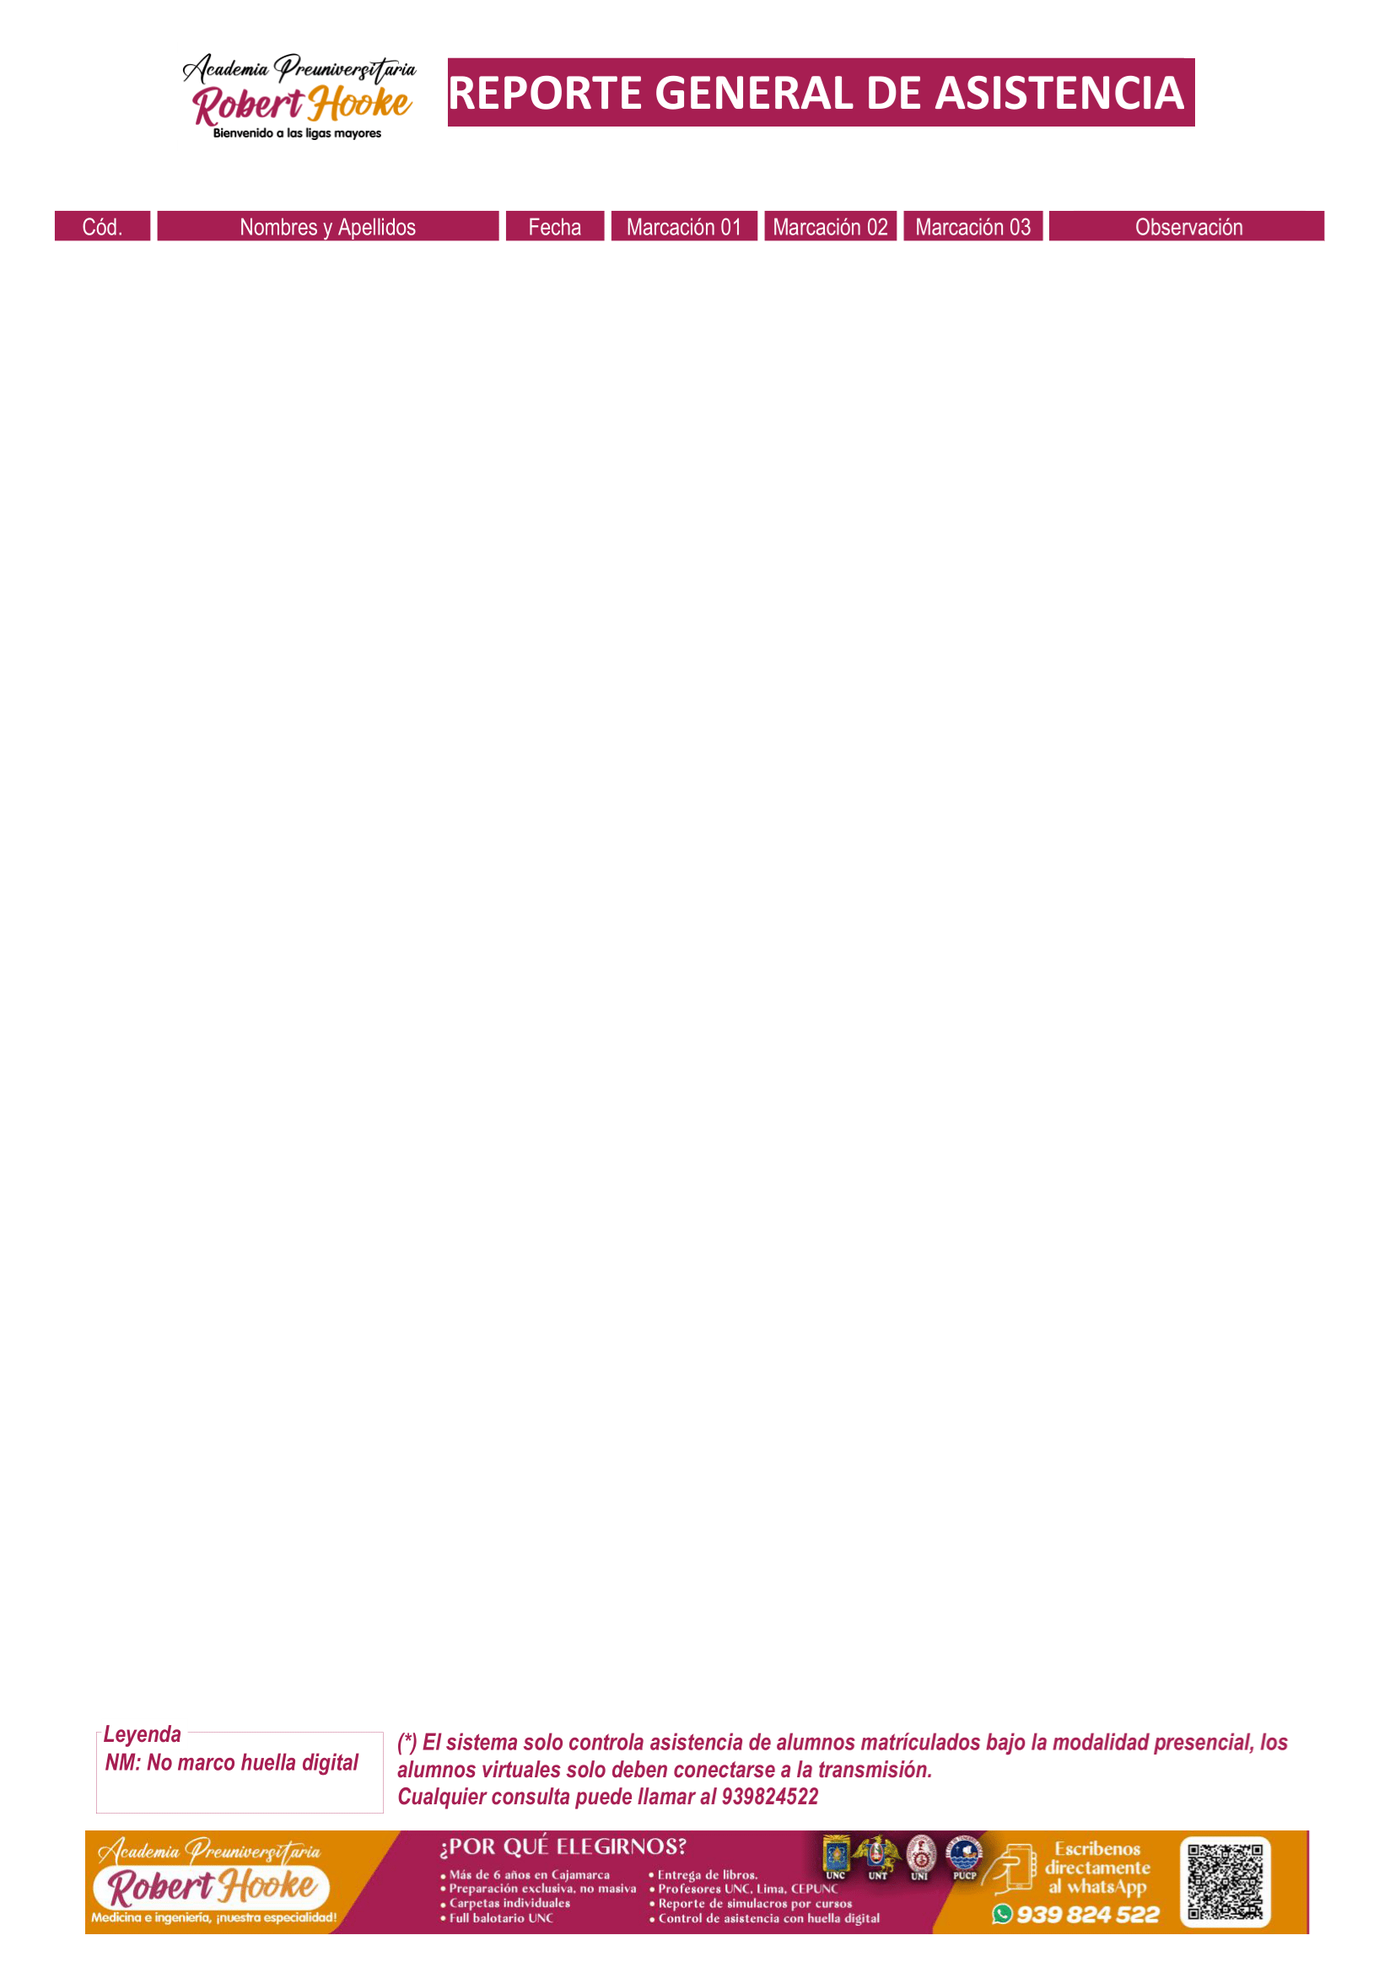
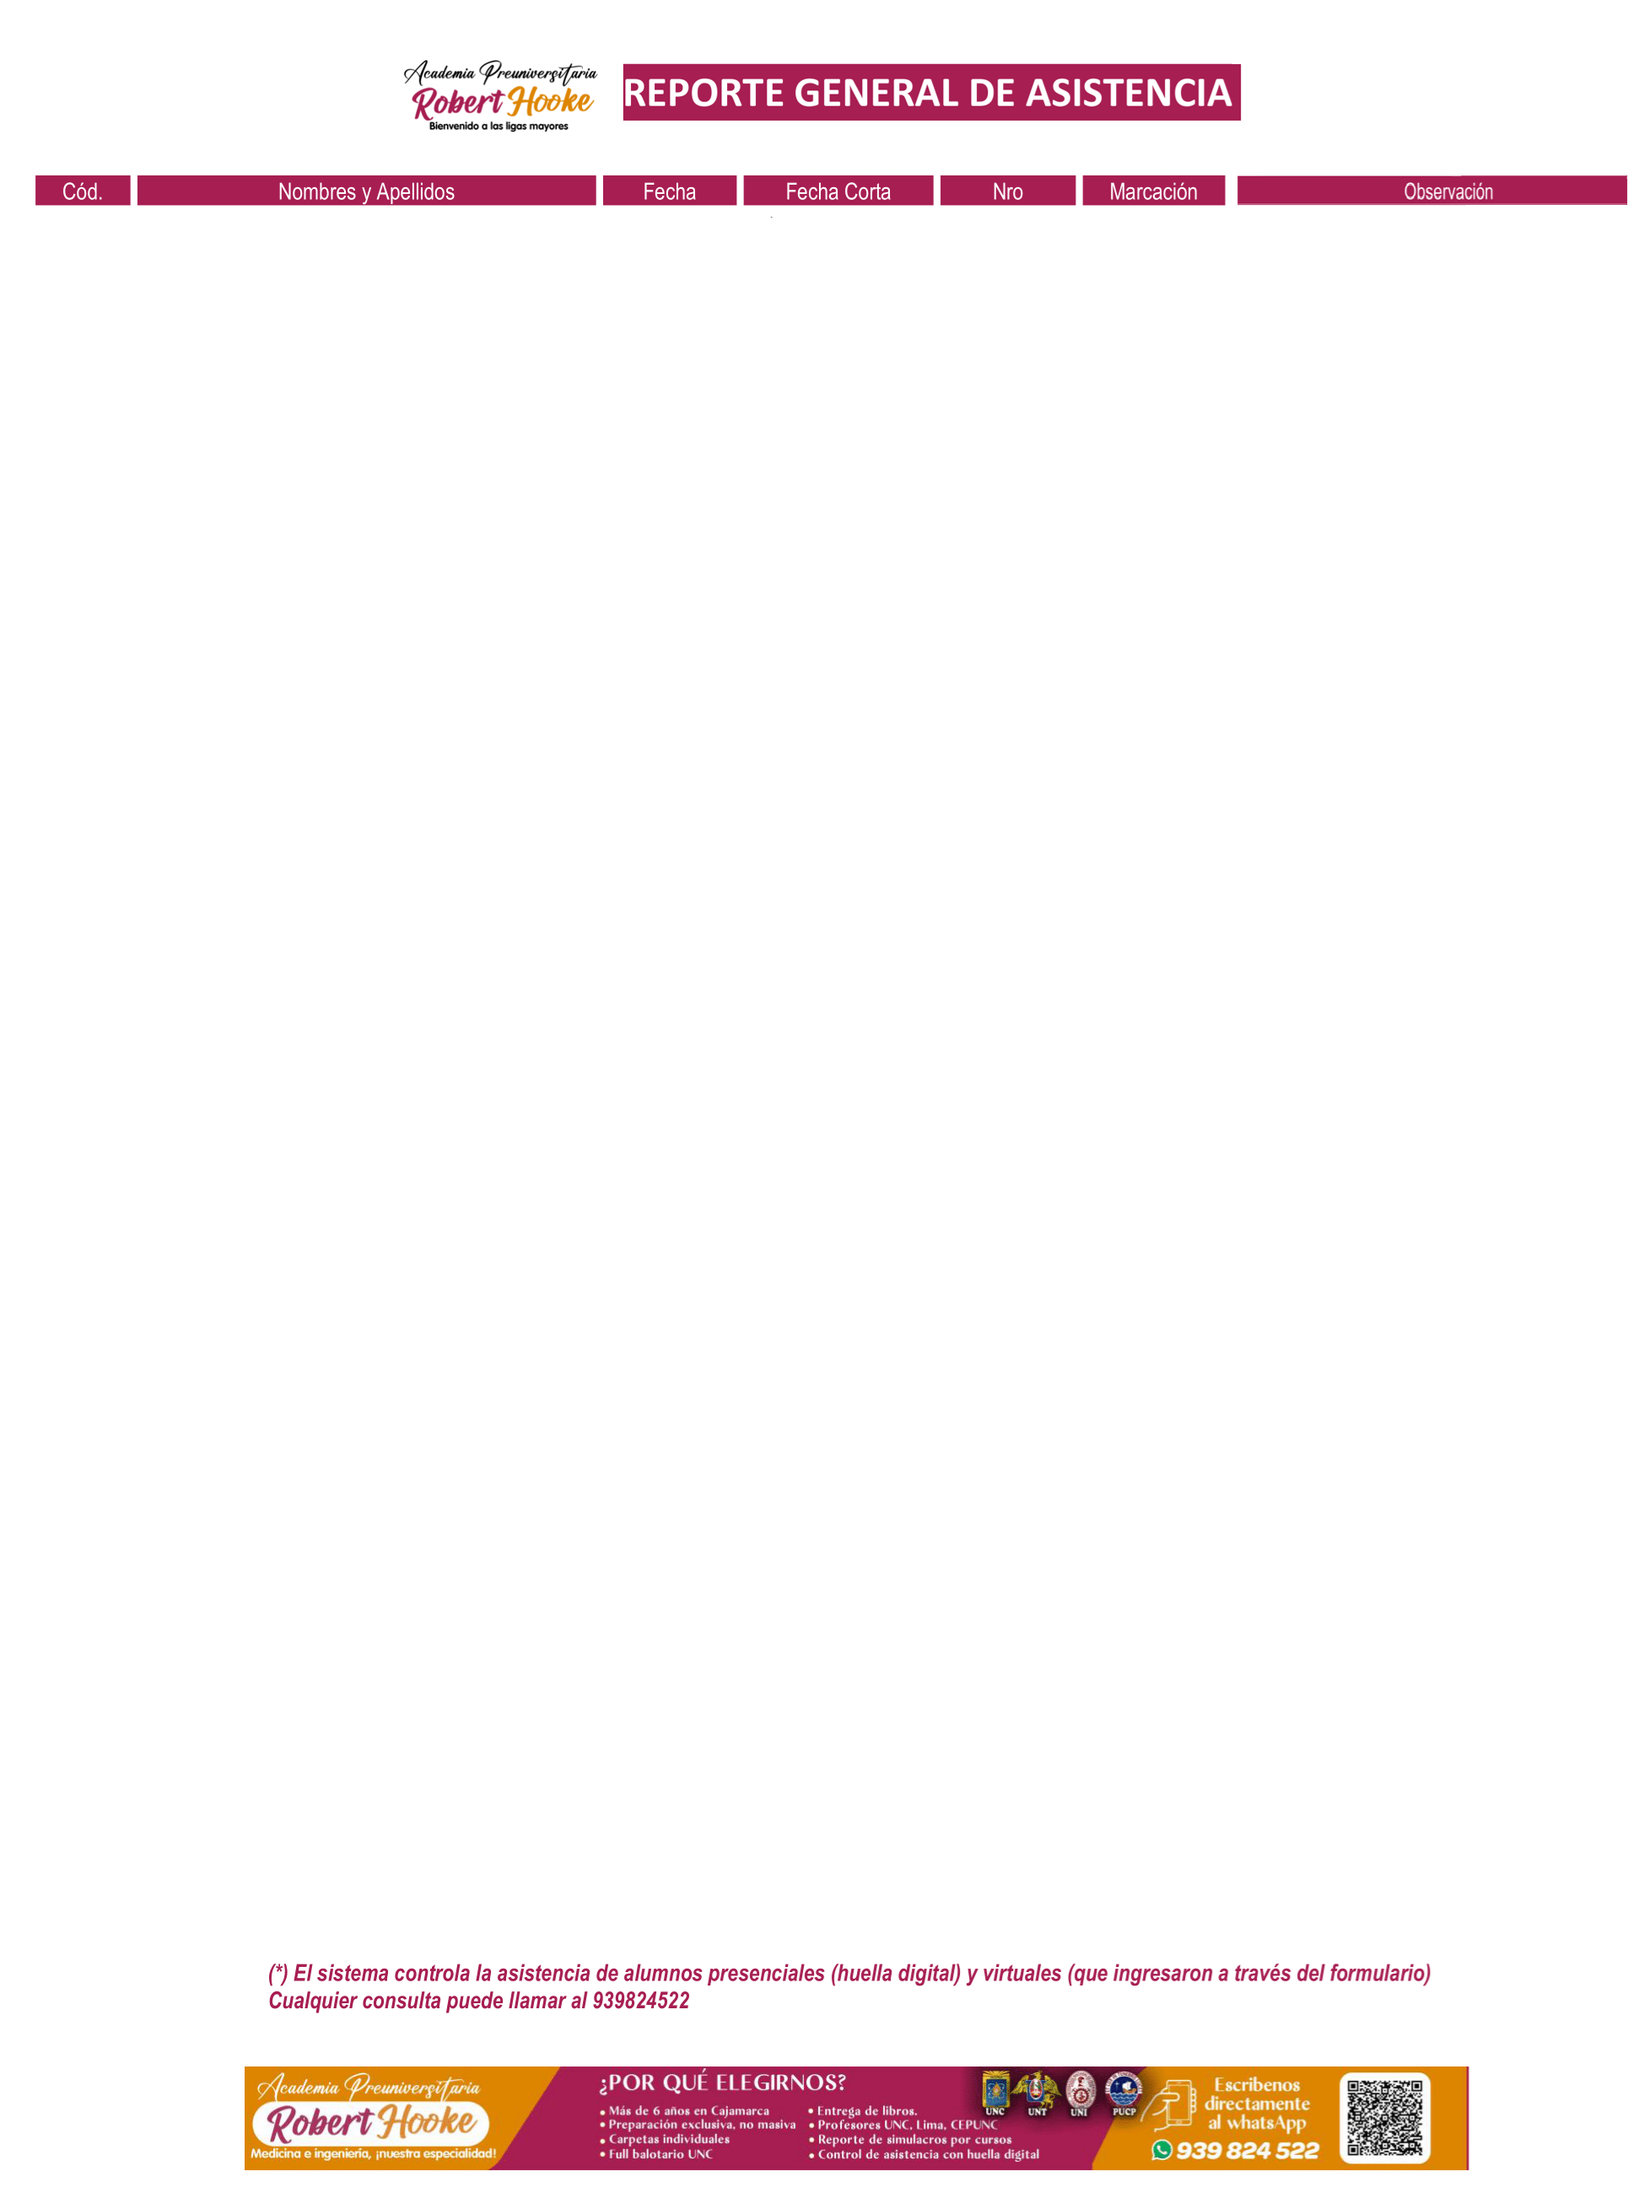
Incorporación de modalidad a asistencia

Changed region(s): [[0.0617, 0.8739, 0.9559, 0.9987], [0.0, 0.0312, 1.0, 0.1248]]

diff --git a/login/templates/ver_asistencias.html b/login/templates/ver_asistencias.html
@@ -57,6 +57,7 @@
                     <th>Fecha Corta</th>
                     <th>Nro</th>
                     <th>Marcación</th>
+                    <th>Modalidad</th>
                     <th>Observación</th>
                 </tr>
             </thead>
@@ -69,6 +70,7 @@
                         <td style="color: black;">{{ a.fecha_corta }}</td>
                         <td style="color: black;">{{ a.numero_marca }}</td>
                         <td style="color: black;">{{ a.hora }}</td>
+                        <td style="color: black;">{{ a.modalidad }}</td>
                         <td style="color: black;">{{ a.observacion }}</td>
                     </tr>
                 {% empty %}

diff --git a/appPrincipal/settings.py b/appPrincipal/settings.py
@@ -11,16 +11,12 @@ https://docs.djangoproject.com/en/5.1/ref/settings/
 """
 
 from pathlib import Path
-from dotenv import load_dotenv
 import os
-load_dotenv()
 
 # Build paths inside the project like this: BASE_DIR / 'subdir'.
 BASE_DIR = Path(__file__).resolve().parent.parent
 
 
-SESSION_COOKIE_NAME = "sessionid_reportes"
-CSRF_COOKIE_NAME = "csrftoken_reportes"
 # Quick-start development settings - unsuitable for production
 # See https://docs.djangoproject.com/en/5.1/howto/deployment/checklist/
 
@@ -85,18 +81,19 @@ WSGI_APPLICATION = 'appPrincipal.wsgi.application'
 
 DATABASES = {
     'default': {
-        'ENGINE': 'django.db.backends.mysql',
-        'NAME': os.getenv('DATABASE_NAME'),
-        'USER': os.getenv('DATABASE_USER'),
-        'PASSWORD': os.getenv('DATABASE_PASSWORD'),
-        'HOST': os.getenv('DATABASE_HOST', 'localhost'),
-        'PORT': os.getenv('DATABASE_PORT', '3306'),
+        'ENGINE': 'django.db.backends.mysql',  # Motor de base de datos
+        'NAME': 'robert2',           # Nombre de la base de datos
+        'USER': 'root',                 # Usuario de MariaDB
+        'PASSWORD': 'qwertynop123',          # Contraseña del usuario
+        'HOST': 'localhost',                  # Dirección del servidor (o IP)
+        'PORT': '3306',                       # Puerto del servidor (default: 3306)
     }
 }
 
 
 # Password validation
 # https://docs.djangoproject.com/en/5.1/ref/settings/#auth-password-validators
+
 AUTH_PASSWORD_VALIDATORS = [
     {
         'NAME': 'django.contrib.auth.password_validation.UserAttributeSimilarityValidator',
@@ -111,6 +108,8 @@ AUTH_PASSWORD_VALIDATORS = [
         'NAME': 'django.contrib.auth.password_validation.NumericPasswordValidator',
     },
 ]
+
+
 # Internationalization
 # https://docs.djangoproject.com/en/5.1/topics/i18n/
 
@@ -139,18 +138,13 @@ AUTHENTICATION_BACKENDS = [
 #]
 
 
+STATIC_URL = '/static/'
 
-
-
-FORCE_SCRIPT_NAME = ''
-STATIC_URL = '/reportes/static/'
-MEDIA_URL = '/reportes/media/'
-LOGIN_URL = '/reportes/accounts/login/'
-LOGIN_REDIRECT_URL = '/reportes/'
 STATIC_ROOT = os.path.join(BASE_DIR, 'staticfiles')
 
-
-
+STATICFILES_DIRS = [
+    os.path.join(BASE_DIR, 'login/static'),
+]
 
 
 
@@ -162,13 +156,11 @@ DEFAULT_AUTO_FIELD = 'django.db.models.BigAutoField'
 
 
 #Variables de entorno
+LOGIN_REDIRECT_URL = 'login'
 LOGOUT_REDIRECT_URL = 'login'
 
-MEDIA_URL = '/reportes/media/'
+MEDIA_URL = '/media/'
 MEDIA_ROOT = os.path.join(BASE_DIR, 'media')
 
 # Configuración para archivos externos (opcional si quieres acceder a D:\estudiantes_robert25)
 EXTERNAL_FILES_ROOT = 'D:/estudiantes_robert2025'
-CELERY_BROKER_URL = 'redis://localhost:6379/0'
-CELERY_ACCEPT_CONTENT = ['json']
-CELERY_TASK_SERIALIZER = 'json'

diff --git a/login/views.py b/login/views.py
@@ -227,7 +227,7 @@ def generar_reporte_asistencia_imagen(estudiante, asistencias):
 
     carpeta = f'media/reportes/asistencias'
     os.makedirs(carpeta, exist_ok=True)
-    nombre_archivo = os.path.join(carpeta, f'reporte_asistencia_{estudiante.usuario}.png')
+    nombre_archivo = os.path.join(carpeta, f'{estudiante.usuario}_reporte_asistencia.png')
     imagen.save(nombre_archivo)
 
     return nombre_archivo
@@ -1028,6 +1028,7 @@ def ver_asistencias(request):
                 "fecha_corta": fecha_corta,
                 "hora": asistencia.Hora,
                 "observacion": asistencia.Observacion,
+                "modalidad" : asistencia.Modalidad,
             })
 
     return render(request, "ver_asistencias.html", {"asistencias": datos, "base_template": base_template, "fecha_filtrada": fecha_filtrada})
@@ -1047,9 +1048,9 @@ def cargar_asistencias(request):
             archivo_excel = request.FILES['archivo_excel']
             try:
                 df = pd.read_excel(archivo_excel)
-                columnas_esperadas = ['usuario', 'marca']
+                columnas_esperadas = ['usuario', 'marca', 'modalidad']
                 if not all(col in df.columns for col in columnas_esperadas):
-                    messages.error(request, "El archivo Excel no tiene las columnas esperadas: 'usuario' y 'marca'.")
+                    messages.error(request, "El archivo Excel no tiene las columnas esperadas: 'usuario', 'marca' y 'modalidad'")
                     return redirect('subir_asistencia')
 
                 for _, fila in df.iterrows():
@@ -1060,11 +1061,12 @@ def cargar_asistencias(request):
 
                         fecha = marca_datetime.date()
                         hora = marca_datetime.strftime("%H:%M")
-
+                        modalidad = fila.get('modalidad')
                         Asistencia.objects.create(
                             KK_usuario=estudiante,
                             Fecha=fecha,
-                            Hora=hora
+                            Hora=hora,
+                            Modalidad = modalidad
                         )
                     except Estudiante.DoesNotExist:
                         messages.warning(request, f"El usuario '{fila['usuario']}' no existe en la base de datos.")

diff --git a/appPrincipal/urls.py b/appPrincipal/urls.py
@@ -21,10 +21,10 @@ from django.conf import settings
 from django.conf.urls.static import static
 from django.urls import path, include
 urlpatterns = [
-    path('reportes/admin/', admin.site.urls),
-    path('reportes/', include('login.urls')),
-    path('reportes/', include('reportesRobert.urls')),
-    path('reportes/accounts/', include('django.contrib.auth.urls')),
+    path('admin/', admin.site.urls),
+    path('', include('login.urls')),
+    path('', include('reportesRobert.urls')),
+    path('accounts/', include('django.contrib.auth.urls')),
     #path('login/', views.LoginView.as_view(template_name='login.html'), name='login'),
     #path('logout/', views.LogoutView.as_view(next_page='/'), name='logout'),
 ] 

diff --git a/login/migrations/0015_asistencia_modalidad_alter_asistencia_observacion.py b/login/migrations/0015_asistencia_modalidad_alter_asistencia_observacion.py
@@ -1,0 +1,23 @@
+# Generated by Django 5.1.3 on 2025-05-27 23:50
+
+from django.db import migrations, models
+
+
+class Migration(migrations.Migration):
+
+    dependencies = [
+        ('login', '0014_asistencia_hora'),
+    ]
+
+    operations = [
+        migrations.AddField(
+            model_name='asistencia',
+            name='Modalidad',
+            field=models.CharField(default='PRESENCIAL', max_length=15),
+        ),
+        migrations.AlterField(
+            model_name='asistencia',
+            name='Observacion',
+            field=models.CharField(default='', max_length=30),
+        ),
+    ]

diff --git a/login/models.py b/login/models.py
@@ -130,4 +130,5 @@ class Asistencia(models.Model):
     KK_usuario = models.ForeignKey(Estudiante, on_delete=models.CASCADE, related_name='asistencia')
     Fecha = models.DateField()
     Hora = models.CharField(max_length=5, default="00:00")
-    Observacion = models.CharField(max_length=30, default= "NM")
+    Observacion = models.CharField(max_length=30, default= "")
+    Modalidad = models.CharField(max_length=15, default="PRESENCIAL")
